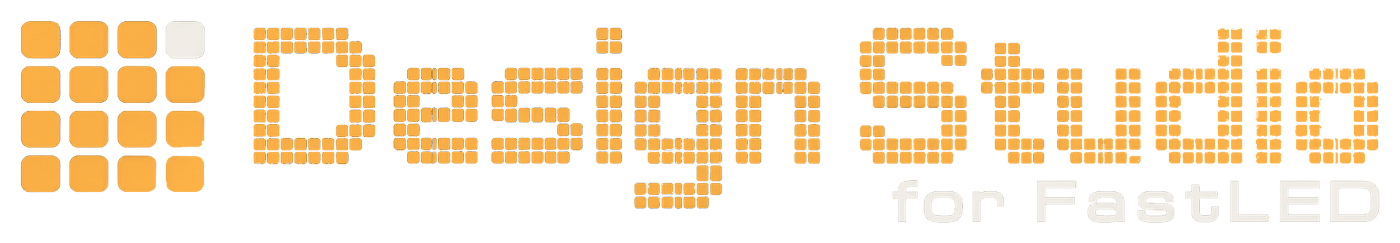
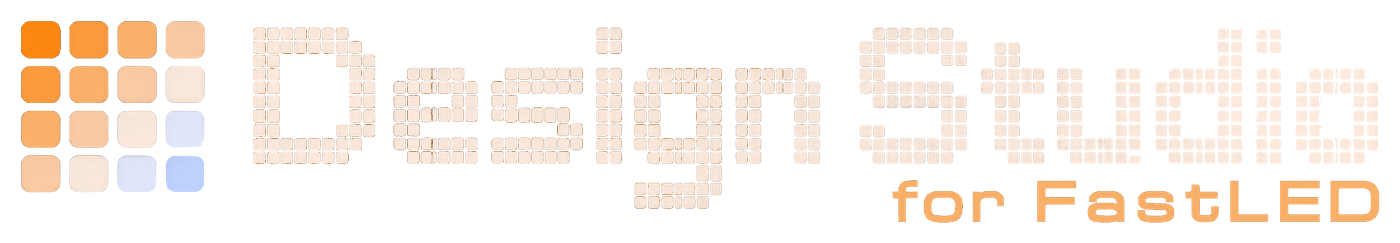
feat(brand): adopt the Kelvin scale as the brand palette
The brand is now seven LED colour temperatures, from Candle (1900K) to
Sky (12000K), and each one is a --kelvin-* token on :root.

The logo mark runs the whole scale corner to corner. The dot in row r,
column c takes step r + c, so Candle sits top left and Sky bottom right.
In the wordmark, "Design Studio" is Daylight and "for FastLED" is Soft
White. The favicon is now the same grid on Studio Black and replaces the
hexagonal flame.

In the interface, the accent moves to Soft White (#ffb46b), hover moves
to Neutral and the preview tag to Candle. The glow effects and the
studio handoff page follow the new values. DESIGN.md and the impeccable
sidecar record the scale and the logo sweep.

diff --git a/src/app/globals.css b/src/app/globals.css
@@ -16,11 +16,21 @@
   --studio-text: #d3cdc4;
   --studio-soft: #b9b2a8;
   --studio-muted: #948c82;
-  --studio-glow: rgba(255, 179, 71, .38);
-  --accent: #ffb347;
-  --accent-strong: #ffc977;
+  /* The Kelvin scale: the brand's seven LED colour temperatures, candle to
+     sky. The logo mark sweeps all seven corner to corner; the interface
+     draws its accent from the warm end. */
+  --kelvin-candle: #ff8912;     /* 1900K */
+  --kelvin-warm-white: #ff9d3f; /* 2400K */
+  --kelvin-soft-white: #ffb46b; /* 3000K */
+  --kelvin-neutral: #ffcea6;    /* 4000K */
+  --kelvin-daylight: #ffecdf;   /* 5500K */
+  --kelvin-cool-white: #e3e9ff; /* 8000K */
+  --kelvin-sky: #bfd3ff;        /* 12000K */
+  --studio-glow: rgba(255, 180, 107, .38);
+  --accent: var(--kelvin-soft-white);
+  --accent-strong: var(--kelvin-neutral);
   --accent-ink: #2e1a00;
-  --ember: #ff6a3d;
+  --ember: var(--kelvin-candle);
   /* Form and transport results only. Status, not palette. */
   --status-error: #ff9aa9;
   --status-success: #7fdcb4;
@@ -146,7 +156,7 @@ h1, h2, h3, p { margin-top: 0; }
    its chrome hidden. */
 .pattern-grid { display: grid; grid-template-columns: repeat(3, minmax(0, 1fr)); gap: 24px; }
 .pattern-card { position: relative; display: block; overflow: hidden; background: var(--studio-black); border: 1px solid var(--studio-rule); border-radius: 12px; transition: border-color .2s ease; }
-.pattern-card:hover { border-color: rgba(255, 179, 71, .45); }
+.pattern-card:hover { border-color: rgba(255, 180, 107, .45); }
 /* The card is no longer an anchor (it holds a moderator button, which cannot
    live inside one), so the link is stretched over it instead. z-index must
    clear every positioned element inside the preview thumbnail (.live-preview
@@ -532,11 +542,11 @@ h1, h2, h3, p { margin-top: 0; }
 .review-page { padding-block: 80px 130px; }
 .review-masthead { margin-bottom: 58px; display: grid; grid-template-columns: 1fr 210px; align-items: end; gap: 80px; }
 .review-masthead h1 { margin-bottom: 22px; font-family: var(--font-display); font-size: clamp(48px, 6vw, 76px); line-height: .96; letter-spacing: -.055em; }
-.review-masthead h1 em { color: var(--cyan); font-style: normal; text-shadow: 0 0 28px rgba(255,179,71,.17); }
+.review-masthead h1 em { color: var(--cyan); font-style: normal; text-shadow: 0 0 28px rgba(255, 180, 107,.17); }
 .review-masthead > div:first-child > p:last-child { max-width: 610px; color: #8391a2; font-size: 14px; line-height: 1.75; }
-.queue-readout { min-height: 190px; padding: 24px; display: flex; flex-direction: column; justify-content: space-between; background: #0d131b; border: 1px solid #2b3744; box-shadow: inset 0 0 35px rgba(255,179,71,.035); }
+.queue-readout { min-height: 190px; padding: 24px; display: flex; flex-direction: column; justify-content: space-between; background: #0d131b; border: 1px solid #2b3744; box-shadow: inset 0 0 35px rgba(255, 180, 107,.035); }
 .queue-readout > span { color: #8a94a5; font-family: var(--font-mono); font-size: 8px; text-transform: uppercase; letter-spacing: .14em; }
-.queue-readout strong { color: var(--cyan); font-family: var(--font-mono); font-size: 66px; font-weight: 400; line-height: 1; letter-spacing: -.08em; text-shadow: 0 0 24px rgba(255,179,71,.25); }
+.queue-readout strong { color: var(--cyan); font-family: var(--font-mono); font-size: 66px; font-weight: 400; line-height: 1; letter-spacing: -.08em; text-shadow: 0 0 24px rgba(255, 180, 107,.25); }
 .queue-readout > div { display: grid; grid-template-columns: repeat(8, 1fr); gap: 7px; }
 .queue-readout i { height: 3px; background: #293441; }
 .queue-readout i.lit { background: var(--amber); box-shadow: 0 0 8px var(--amber); }
@@ -608,7 +618,7 @@ h1, h2, h3, p { margin-top: 0; }
 .manage-badge.is-live { color: var(--green); border-color: rgba(40,242,177,.3); }
 .manage-badge.is-hidden { color: var(--amber); border-color: rgba(255,176,46,.3); }
 .manage-badge.is-archived-badge { color: #ff9aa9; border-color: rgba(255,154,169,.32); }
-.manage-badge.status-approved { color: var(--cyan); border-color: rgba(255,179,71,.26); }
+.manage-badge.status-approved { color: var(--cyan); border-color: rgba(255, 180, 107,.26); }
 .manage-badge.status-rejected { color: #ff9aa9; border-color: rgba(255,154,169,.26); }
 .manage-row-actions { margin-left: auto; display: flex; flex-wrap: wrap; align-items: center; gap: 8px; }
 .manage-row-actions .button { min-height: 32px; padding-inline: 11px; font-size: 10px; gap: 6px; }
@@ -691,7 +701,7 @@ h1, h2, h3, p { margin-top: 0; }
 .home-section-title { margin: 0; color: var(--studio-bright); font-size: clamp(32px, 3.6vw, 52px); font-weight: 700; line-height: 1.08; letter-spacing: -.025em; text-wrap: balance; }
 
 /* The accent rule from the episode slates, used under steps and lists. */
-.home-rule { display: block; width: 72px; height: 5px; border-radius: 3px; background: var(--accent); box-shadow: 0 0 18px rgba(255, 179, 71, .6); }
+.home-rule { display: block; width: 72px; height: 5px; border-radius: 3px; background: var(--accent); box-shadow: 0 0 18px rgba(255, 180, 107, .6); }
 
 /* Hero: the bench loop owns the right of the frame; copy sits in the dark. */
 .home-hero { position: relative; min-height: min(calc(100svh - 76px), 880px); display: flex; align-items: center; overflow: hidden; background: #000; }
@@ -713,7 +723,7 @@ h1, h2, h3, p { margin-top: 0; }
 .home-step-number { display: block; color: var(--accent); font-family: var(--font-studio-mark), sans-serif; font-size: clamp(76px, 8vw, 116px); line-height: 1; text-shadow: 0 0 38px var(--studio-glow); }
 .home-step h3 { margin: 26px 0 0; color: var(--studio-bright); font-size: clamp(26px, 2.4vw, 34px); font-weight: 700; letter-spacing: -.02em; }
 .home-step p { max-width: 40ch; margin: 14px 0 0; color: var(--studio-soft); font-size: 17px; line-height: 1.65; }
-.home-step-copy::after { content: ""; display: block; width: 72px; height: 5px; margin-top: 30px; border-radius: 3px; background: var(--accent); box-shadow: 0 0 18px rgba(255, 179, 71, .6); }
+.home-step-copy::after { content: ""; display: block; width: 72px; height: 5px; margin-top: 30px; border-radius: 3px; background: var(--accent); box-shadow: 0 0 18px rgba(255, 180, 107, .6); }
 .home-step-still, .home-hardware-still { margin: 0; -webkit-mask-image: linear-gradient(90deg, transparent, #000 9%, #000 91%, transparent), linear-gradient(transparent, #000 11%, #000 89%, transparent); -webkit-mask-composite: source-in; mask-image: linear-gradient(90deg, transparent, #000 9%, #000 91%, transparent), linear-gradient(transparent, #000 11%, #000 89%, transparent); mask-composite: intersect; }
 .home-step-still img, .home-hardware-still img { width: 100%; height: auto; display: block; }
 .home-steps-note { max-width: 70ch; margin: 72px 0 0; color: var(--studio-muted); font-family: var(--font-studio-mono), monospace; font-size: 12px; line-height: 1.7; }
@@ -833,7 +843,7 @@ h1, h2, h3, p { margin-top: 0; }
 .tutorial-facade:focus-visible { outline-offset: -4px; }
 .tutorial-facade img { position: absolute; inset: 0; width: 100%; height: 100%; object-fit: cover; transition: filter .2s ease; }
 .tutorial-facade:hover img { filter: brightness(1.08); }
-.tutorial-play { position: relative; width: 76px; height: 76px; display: grid; place-items: center; padding-left: 4px; color: var(--accent-ink); background: var(--accent); border-radius: 50%; box-shadow: 0 0 36px rgba(255, 179, 71, .5); transition: background-color .2s ease, transform .2s ease; }
+.tutorial-play { position: relative; width: 76px; height: 76px; display: grid; place-items: center; padding-left: 4px; color: var(--accent-ink); background: var(--accent); border-radius: 50%; box-shadow: 0 0 36px rgba(255, 180, 107, .5); transition: background-color .2s ease, transform .2s ease; }
 .tutorial-facade:hover .tutorial-play { background: var(--accent-strong); transform: scale(1.05); }
 .tutorial-chapters { margin: 18px 0 0; padding: 0; list-style: none; display: grid; grid-template-columns: repeat(2, minmax(0, 1fr)); gap: 0 24px; }
 .tutorial-chapters button { width: 100%; min-height: 40px; padding: 6px 0; display: flex; align-items: baseline; gap: 12px; color: var(--studio-soft); background: none; border: 0; border-bottom: 1px solid var(--studio-rule); font-size: 14px; text-align: left; cursor: pointer; transition: color .2s ease; }

diff --git a/src/app/upload/handoff/route.ts b/src/app/upload/handoff/route.ts
@@ -17,7 +17,7 @@ function htmlPage(body: string, status = 200) {
 }
 
 function errorPage(message: string, status = 400) {
-  return htmlPage(`<!doctype html><html lang="en"><meta charset="utf-8"><meta name="viewport" content="width=device-width"><title>Studio handoff</title><style>html{color-scheme:dark}body{margin:0;min-height:100vh;display:grid;place-items:center;background:#080a0e;color:#e8edf5;font:16px system-ui}.card{width:min(520px,calc(100% - 40px));padding:32px;background:#111720;border:1px solid #5a3b26;border-radius:12px}h1{font-size:24px}p{color:#9ba5b3;line-height:1.6}a{color:#ffb347}</style><div class="card"><h1>That pattern could not be attached.</h1><p>${message}</p><a href="/upload">Open the upload page</a></div></html>`, status);
+  return htmlPage(`<!doctype html><html lang="en"><meta charset="utf-8"><meta name="viewport" content="width=device-width"><title>Studio handoff</title><style>html{color-scheme:dark}body{margin:0;min-height:100vh;display:grid;place-items:center;background:#080a0e;color:#e8edf5;font:16px system-ui}.card{width:min(520px,calc(100% - 40px));padding:32px;background:#111720;border:1px solid #5a3b26;border-radius:12px}h1{font-size:24px}p{color:#9ba5b3;line-height:1.6}a{color:#ffb46b}</style><div class="card"><h1>That pattern could not be attached.</h1><p>${message}</p><a href="/upload">Open the upload page</a></div></html>`, status);
 }
 
 export async function POST(request: Request) {
@@ -63,5 +63,5 @@ export async function POST(request: Request) {
     .replaceAll(" ", "\\u2029");
   const storageKey = JSON.stringify(DRAFT_KEY);
 
-  return htmlPage(`<!doctype html><html lang="en"><meta charset="utf-8"><meta name="viewport" content="width=device-width"><title>Receiving Studio pattern</title><style>html{color-scheme:dark}body{margin:0;min-height:100vh;display:grid;place-items:center;background:#080a0e;color:#e8edf5;font:15px ui-monospace,monospace}.signal{display:flex;align-items:center;gap:9px;color:#ffb347}.signal i{width:7px;height:7px;border-radius:50%;background:currentColor;box-shadow:0 0 12px currentColor;animation:p .8s ease-in-out infinite alternate}.signal i:nth-child(2){color:#ff6a3d;animation-delay:.12s}.signal i:nth-child(3){color:#d9483b;animation-delay:.24s}@keyframes p{to{opacity:.25;transform:translateX(4px)}}</style><div class="signal">Receiving pattern <i></i><i></i><i></i></div><script>try{sessionStorage.setItem(${storageKey},${scriptValue});location.replace('/upload?from=studio')}catch(e){document.body.textContent='The pattern arrived, but this browser blocked temporary storage. Please use the file upload instead.'}</script></html>`);
+  return htmlPage(`<!doctype html><html lang="en"><meta charset="utf-8"><meta name="viewport" content="width=device-width"><title>Receiving Studio pattern</title><style>html{color-scheme:dark}body{margin:0;min-height:100vh;display:grid;place-items:center;background:#080a0e;color:#e8edf5;font:15px ui-monospace,monospace}.signal{display:flex;align-items:center;gap:9px;color:#ffb46b}.signal i{width:7px;height:7px;border-radius:50%;background:currentColor;box-shadow:0 0 12px currentColor;animation:p .8s ease-in-out infinite alternate}.signal i:nth-child(2){color:#ff9d3f;animation-delay:.12s}.signal i:nth-child(3){color:#ff8912;animation-delay:.24s}@keyframes p{to{opacity:.25;transform:translateX(4px)}}</style><div class="signal">Receiving pattern <i></i><i></i><i></i></div><script>try{sessionStorage.setItem(${storageKey},${scriptValue});location.replace('/upload?from=studio')}catch(e){document.body.textContent='The pattern arrived, but this browser blocked temporary storage. Please use the file upload instead.'}</script></html>`);
 }

diff --git a/DESIGN.md b/DESIGN.md
@@ -2,10 +2,14 @@
 name: Design Studio for FastLED
 description: Hardware sitting in darkness, lit only by the pattern it runs.
 colors:
-  tungsten-amber: "#ffb347"
-  tungsten-amber-hot: "#ffc977"
-  tungsten-ink: "#2e1a00"
-  ember: "#ff6a3d"
+  kelvin-candle: "#ff8912"
+  kelvin-warm-white: "#ff9d3f"
+  kelvin-soft-white: "#ffb46b"
+  kelvin-neutral: "#ffcea6"
+  kelvin-daylight: "#ffecdf"
+  kelvin-cool-white: "#e3e9ff"
+  kelvin-sky: "#bfd3ff"
+  accent-ink: "#2e1a00"
   studio-black: "#0b0e12"
   footage-black: "#000000"
   studio-rule: "#1f242b"
@@ -67,27 +71,27 @@ spacing:
   step-gap: "104px"
 components:
   button-primary:
-    backgroundColor: "{colors.tungsten-amber}"
-    textColor: "{colors.tungsten-ink}"
+    backgroundColor: "{colors.kelvin-soft-white}"
+    textColor: "{colors.accent-ink}"
     rounded: "{rounded.control}"
     padding: "0 22px"
     height: "52px"
   button-primary-hover:
-    backgroundColor: "{colors.tungsten-amber-hot}"
+    backgroundColor: "{colors.kelvin-neutral}"
   button-quiet:
     textColor: "{colors.studio-bright}"
     rounded: "{rounded.control}"
     padding: "0 22px"
     height: "52px"
   text-link:
-    textColor: "{colors.tungsten-amber}"
+    textColor: "{colors.kelvin-soft-white}"
   preview-tag:
-    textColor: "{colors.ember}"
+    textColor: "{colors.kelvin-candle}"
     typography: "{typography.label}"
     rounded: "{rounded.tag}"
     padding: "6px 10px"
   slate-rule:
-    backgroundColor: "{colors.tungsten-amber}"
+    backgroundColor: "{colors.kelvin-soft-white}"
     rounded: "{rounded.rule}"
     width: "72px"
     height: "5px"
@@ -102,7 +106,7 @@ components:
 
 **Creative North Star: "The Lit Bench"**
 
-The site is the home of the "Learn the Studio" series: an LED matrix and its board on a bench in a dark room, with the only light coming from the pattern running on them. Everything else is studio black and warm neutral type. The one designed light is tungsten amber, which marks what to do (the download), where you are in the story (slate numerals and rules), and what you can follow (links). Footage, stills and live pattern previews supply all the other colour, and none of it belongs to the palette.
+The site is the home of the "Learn the Studio" series: an LED matrix and its board on a bench in a dark room, with the only light coming from the pattern running on them. Everything else is studio black and warm neutral type. The brand is the Kelvin scale, seven LED colour temperatures from candle (1900K) to sky (12000K). The logo mark sweeps the whole scale; on the page the one designed light is Soft White (3000K), which marks what to do (the download), where you are in the story (slate numerals and rules), and what you can follow (links). Footage, stills and live pattern previews supply all the other colour, and none of it belongs to the palette.
 
 Density is low and cinematic: one idea per section, long vertical spacing, stills set straight on the dark with feathered edges rather than in frames or panels. Type does the structure. Inter carries headlines and reading, JetBrains Mono carries facts and captions, and Audiowide, the series' slate face, appears only on step numerals and the closing line.
 
@@ -112,22 +116,37 @@ Motion is light, not movement. As a section enters view, its light comes up once
 
 **Key Characteristics:**
 - Studio-black ground; colour comes from footage and live previews, not from surfaces.
-- One accent, tungsten amber, rationed to actions, numerals, slate rules and links.
+- One accent, Soft White (3000K) from the Kelvin scale, rationed to actions, numerals, slate rules and links. The full scale belongs to the logo mark.
 - Stills unframed, feathered into the dark by masks.
 - Sections separated by thin rules and space, never by boxes.
 - Glow (soft amber text-shadow) is the one depth effect, reserved for lit elements.
 
 ## Colors
 
-A near-black studio with warm off-white type and a single tungsten filament of colour.
+A near-black studio with warm off-white type, lit by the colour temperatures of white LEDs.
+
+### The Kelvin Scale (brand)
+Seven LED colour temperatures, warm to cool. Each is a token on `:root` (`--kelvin-*`).
+
+| Name | Temperature | Hex |
+|---|---|---|
+| Candle | 1900K | `#ff8912` |
+| Warm White | 2400K | `#ff9d3f` |
+| Soft White | 3000K | `#ffb46b` |
+| Neutral | 4000K | `#ffcea6` |
+| Daylight | 5500K | `#ffecdf` |
+| Cool White | 8000K | `#e3e9ff` |
+| Sky | 12000K | `#bfd3ff` |
+
+**The logo mark (Kelvin sweep).** The 4 x 4 LED grid runs the scale corner to corner: the dot in row r, column c takes step r + c, so Candle sits top left and Sky bottom right. The wordmark's "Design Studio" letters are Daylight and its "for FastLED" line is Soft White. The favicon is the same grid on a Studio Black square. Shape, gloss and alpha come from the source pixels.
 
 ### Primary
-- **Tungsten Amber** (`--accent`): the primary button fill, step numerals, slate rules, the hero headline's second line, text links, list markers in release notes, the dotted signal links in the step 03 flow, and the LED-dot wordmark and favicon: every lit dot is flat amber, the wordmark's single white LED and its "for FastLED" line are Studio Bright, and the favicon's flame is Hot Filament on a Studio Black ground. Neither carries the old amber-to-red gradient. Also tints the hero facts line (mixed 72% with Studio Muted).
-- **Hot Filament** (`--accent-strong`): primary button hover only.
-- **Tungsten Ink** (`--accent-ink`): text on the amber button.
+- **Soft White, 3000K** (`--accent`): the primary button fill, step numerals, slate rules, the hero headline's second line, text links, list markers in release notes and the dotted signal links in the step 03 flow. Also tints the hero facts line (mixed 72% with Studio Muted).
+- **Neutral, 4000K** (`--accent-strong`): primary button hover only.
+- **Accent Ink** (`--accent-ink`): text on the accent button.
 
 ### Secondary
-- **Ember** (`--ember`): preview status tags only (text plus a 45% ember border). It marks "not the published release"; it is never a second decorative accent. No page carries one today.
+- **Candle, 1900K** (`--ember`): preview status tags only (text plus a 45% candle border). It marks "not the published release"; it is never a second decorative accent. No page carries one today.
 
 ### Neutral
 - **Studio Black**: the page ground for every section.
@@ -141,11 +160,11 @@ A near-black studio with warm off-white type and a single tungsten filament of c
 - **Studio Muted**: captions, credits, notes, card metadata.
 
 ### Named Rules
-**The One Filament Rule.** Tungsten amber is the only designed light. It marks the action, the slate (numeral plus rule), links, and the headline's promise line. Nothing else is amber, and no other hue is added to the palette; colour beyond that comes from footage and live previews.
+**The One Filament Rule.** In the interface, Soft White (3000K) is the only designed light. It marks the action, the slate (numeral plus rule), links, and the headline's promise line. Nothing else is amber. The rest of the Kelvin scale lives in the logo mark, plus Neutral for hover and Candle for preview tags; colour beyond that comes from footage and live previews.
 
 **The Amber Is the Link Rule.** On the dark, amber text is a link and needs no other device at rest; underline appears on hover. Plain text is never amber unless it is a numeral, a headline promise or the facts line.
 
-**The Ember Means Preview Rule.** Ember appears only on preview or status tags that separate unreleased work from the published download.
+**The Candle Means Preview Rule.** Candle appears only on preview or status tags that separate unreleased work from the published download.
 
 ## Typography
 
@@ -183,8 +202,8 @@ Two-column sections use asymmetric fractions: steps 4fr / 7fr (copy, still), dow
 Flat. There are no panels, glass or drop shadows on surfaces, and the home world removes the legacy card shadows. Depth comes from light: a soft amber glow on lit elements, and masks that feather footage and stills into the black.
 
 ### Shadow Vocabulary
-- **Lit glyph** (`text-shadow: 0 0 38-46px rgba(255,179,71,.38)`): step numerals, the amber headline line and the closing line.
-- **Lit rule** (`box-shadow: 0 0 18px rgba(255,179,71,.6)`): slate rules only.
+- **Lit glyph** (`text-shadow: 0 0 38-46px rgba(255,180,107,.38)`): step numerals, the amber headline line and the closing line.
+- **Lit rule** (`box-shadow: 0 0 18px rgba(255,180,107,.6)`): slate rules only.
 
 ### Named Rules
 **The Only Light Rule.** Glow belongs to things that are lit: amber numerals, slate rules, the headline promise and the closing line. Boxes, cards and buttons never cast shadows.
@@ -200,8 +219,8 @@ Soft but restrained: 12px corners on buttons and pattern cards, 8px on the previ
 ### Buttons
 Confident and few: one amber action and one quiet companion.
 - **Shape:** gently rounded (12px), 52px minimum height, 22px horizontal padding, Inter 600 16px, icon gap 10px.
-- **Primary:** Tungsten Amber fill with Tungsten Ink text, a download icon leading. One primary per view.
-- **Hover / Focus:** primary moves to Hot Filament; quiet button's border turns amber. Transitions on background, border and colour, 0.2s ease.
+- **Primary:** Soft White (3000K) fill with Accent Ink text, a download icon leading. One primary per view.
+- **Hover / Focus:** primary moves to Neutral (4000K); quiet button's border turns amber. Transitions on background, border and colour, 0.2s ease.
 - **Quiet:** Studio Bright text on translucent studio black (66%) with a 1px Quiet Edge border, trailing arrow.
 
 ### Text Links
@@ -238,7 +257,7 @@ A labelled diagram (source, link, stage, link, destination) used in place of a s
 Platform rows of at least 60px between 1px Studio Rule lines: platform name in Studio Bright (amber on hover), details in mono Studio Muted, an alternate build as an amber mono link on the right.
 
 ### Preview Tag
-An Ember mono label (12px, 0.08em) in a 1px 45% ember outline with 8px corners, beneath the headline of the section it marks. Not in use today.
+A Candle mono label (12px, 0.08em) in a 1px 45% candle outline with 8px corners, beneath the headline of the section it marks. Not in use today.
 
 ## Do's and Don'ts
 
@@ -248,10 +267,10 @@ An Ember mono label (12px, 0.08em) in a 1px 45% ember outline with 8px corners, 
 - **Do** keep amber to the action, slate numerals and rules, links, the headline promise line, and the dotted signal cable.
 - **Do** use Audiowide only for slate numerals and the closing line.
 - **Do** bring light up once per section from a readable state, and show the lit state under reduced motion.
-- **Do** mark unreleased work with the Ember preview tag.
+- **Do** mark unreleased work with the Candle preview tag.
 
 ### Don't:
-- **Don't** add a second accent hue, or recolour the series' per-episode hues back in; the scheme is one tungsten accent.
+- **Don't** add a second accent hue, or recolour the series' per-episode hues back in; the interface takes one accent from the Kelvin scale, and the full sweep belongs to the logo mark.
 - **Don't** box stills or footage in frames, borders, radii or device mockups.
 - **Don't** use panels, glass, decorative gradient fills or drop shadows on cards and buttons; gradients exist only as feathering masks and the dotted cable.
 - **Don't** build a split hero of copy beside an app screenshot with a feature-card grid below.

diff --git a/.impeccable/surfaces/src-app-page-tsx.md b/.impeccable/surfaces/src-app-page-tsx.md
@@ -17,7 +17,7 @@ Colour scheme (user, after the first build): "Dark, new accents", "Tungsten warm
 
 THESIS: The site is the home of the "Learn the Studio" series: hardware sitting in darkness, lit only by the pattern it runs. It refuses the split hero of copy beside an app screenshot with feature cards below.
 
-OWN-WORLD: Studio-black ground (#0b0e12), no gradients, glass or panels; the only light is LED light from footage and live previews. One accent, tungsten amber (#ffb347), for the action, step numerals and their slate rules, the hero headline's second line (the promise, lit like the slates' numerals), the tinted facts line, text links (amber is the link colour so links need no other device), the dotted links in the step 03 flow (the dotted signal cable from E11), the slate rule that closes the release notes in the download section, and the recoloured LED-dot wordmark and favicon (user request); ember (#ff6a3d) only for the preview status tag. Nothing else is amber. Warm neutrals for text. Audiowide for numerals and the closing line, Inter heavy for headlines, JetBrains Mono for data and captions. Stills sit unframed on the dark, feathered at the edges.
+OWN-WORLD: Studio-black ground (#0b0e12), no gradients, glass or panels; the only light is LED light from footage and live previews. One accent, Soft White 3000K (#ffb46b) from the Kelvin brand scale, for the action, step numerals and their slate rules, the hero headline's second line (the promise, lit like the slates' numerals), the tinted facts line, text links (amber is the link colour so links need no other device), the dotted links in the step 03 flow (the dotted signal cable from E11), the slate rule that closes the release notes in the download section, while the LED-dot wordmark and favicon sweep the full Kelvin scale, candle to sky (user request); candle (#ff8912) only for the preview status tag. Nothing else is amber. Warm neutrals for text. Audiowide for numerals and the closing line, Inter heavy for headlines, JetBrains Mono for data and captions. Stills sit unframed on the dark, feathered at the edges.
 
 STORY: The visitor sees a matrix light up on a bench, reads the line "Build LED patterns with nodes. Send them to real lights.", downloads, or follows the four steps from graph to light, browses real patterns, and notes the hardware preview.
 
